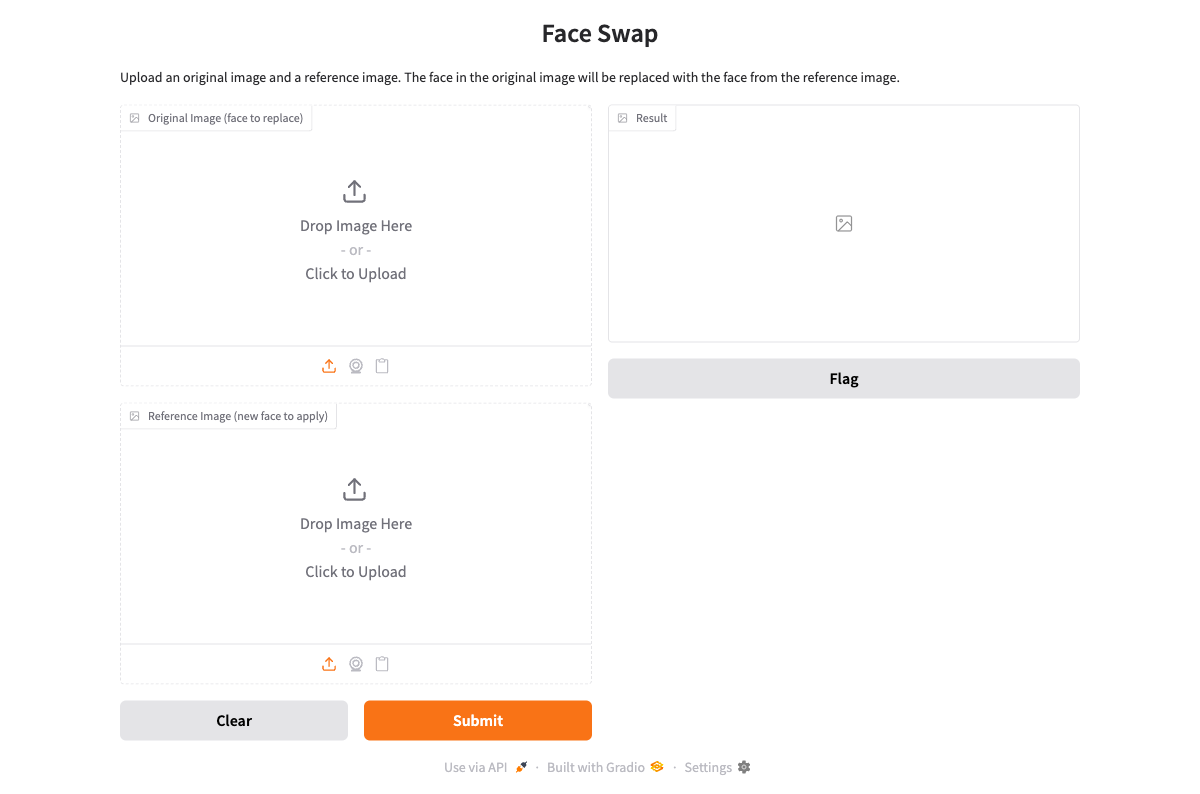
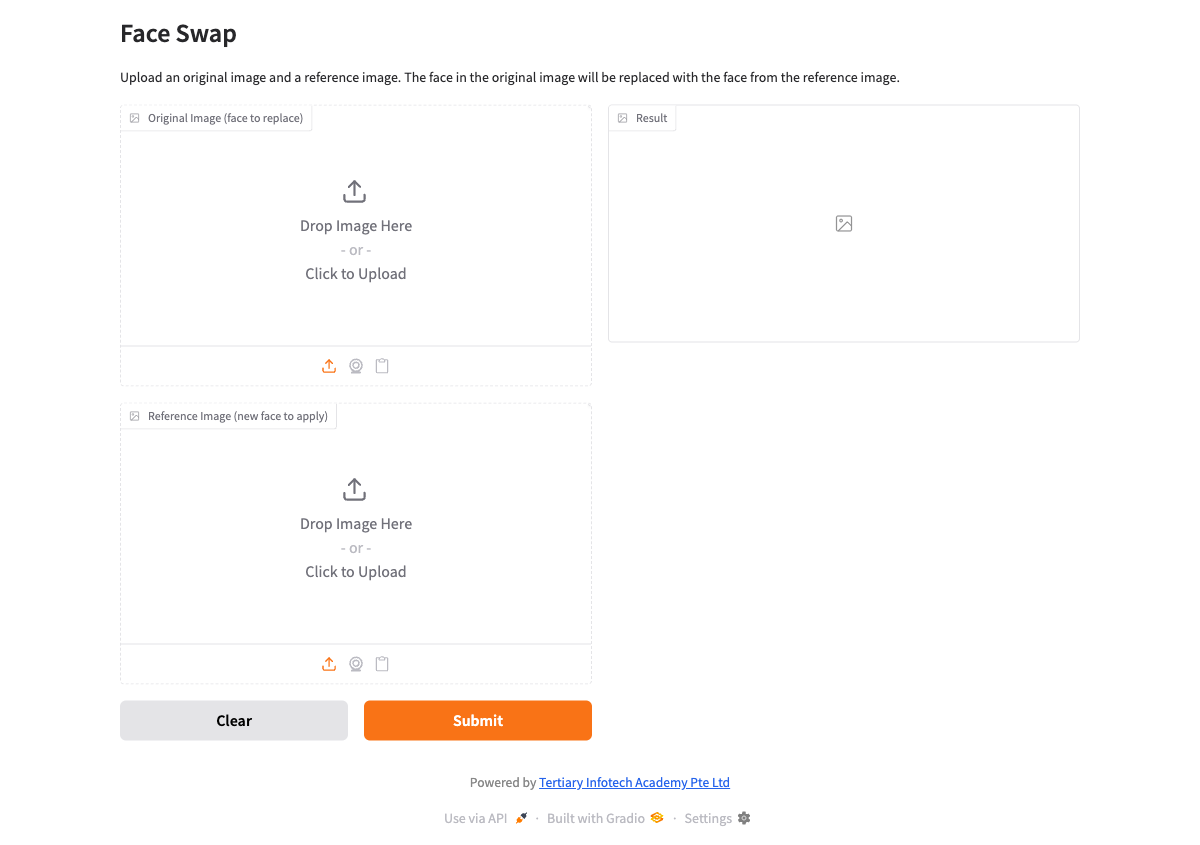
feat: add Powered by Tertiary Infotech Academy footer

diff --git a/app.py b/app.py
@@ -30,16 +30,30 @@ def swap_face(original_image: np.ndarray, reference_image: np.ndarray) -> np.nda
     return cv2.cvtColor(result_bgr, cv2.COLOR_BGR2RGB)
 
 
-demo = gr.Interface(
-    fn=swap_face,
-    inputs=[
-        gr.Image(label="Original Image (face to replace)", type="numpy"),
-        gr.Image(label="Reference Image (new face to apply)", type="numpy"),
-    ],
-    outputs=gr.Image(label="Result"),
-    title="Face Swap",
-    description="Upload an original image and a reference image. The face in the original image will be replaced with the face from the reference image.",
-)
+with gr.Blocks(title="Face Swap") as demo:
+    gr.Markdown("# Face Swap")
+    gr.Markdown(
+        "Upload an original image and a reference image. "
+        "The face in the original image will be replaced with the face from the reference image."
+    )
+    with gr.Row():
+        with gr.Column():
+            original = gr.Image(label="Original Image (face to replace)", type="numpy")
+            reference = gr.Image(label="Reference Image (new face to apply)", type="numpy")
+            with gr.Row():
+                clear_btn = gr.ClearButton([original, reference], value="Clear")
+                submit_btn = gr.Button("Submit", variant="primary")
+        with gr.Column():
+            result = gr.Image(label="Result")
+
+    submit_btn.click(fn=swap_face, inputs=[original, reference], outputs=result)
+    clear_btn.add(result)
+
+    gr.Markdown(
+        '<div style="text-align:center; margin-top:1rem; color:#888; font-size:0.85rem;">'
+        'Powered by <a href="https://www.tertiarycourses.com.sg/" target="_blank">'
+        "Tertiary Infotech Academy Pte Ltd</a></div>"
+    )
 
 if __name__ == "__main__":
     demo.launch()

diff --git a/README.md b/README.md
@@ -125,7 +125,7 @@ Join the [Discussions](https://github.com/alfredang/faceswap/discussions) for qu
 
 <div align="center">
 
-### Developed by [Tertiary Infotech Academy Pte. Ltd.](https://www.tertiaryinfotech.com)
+### Powered by [Tertiary Infotech Academy Pte Ltd](https://www.tertiarycourses.com.sg/)
 
 ### Acknowledgements
 
